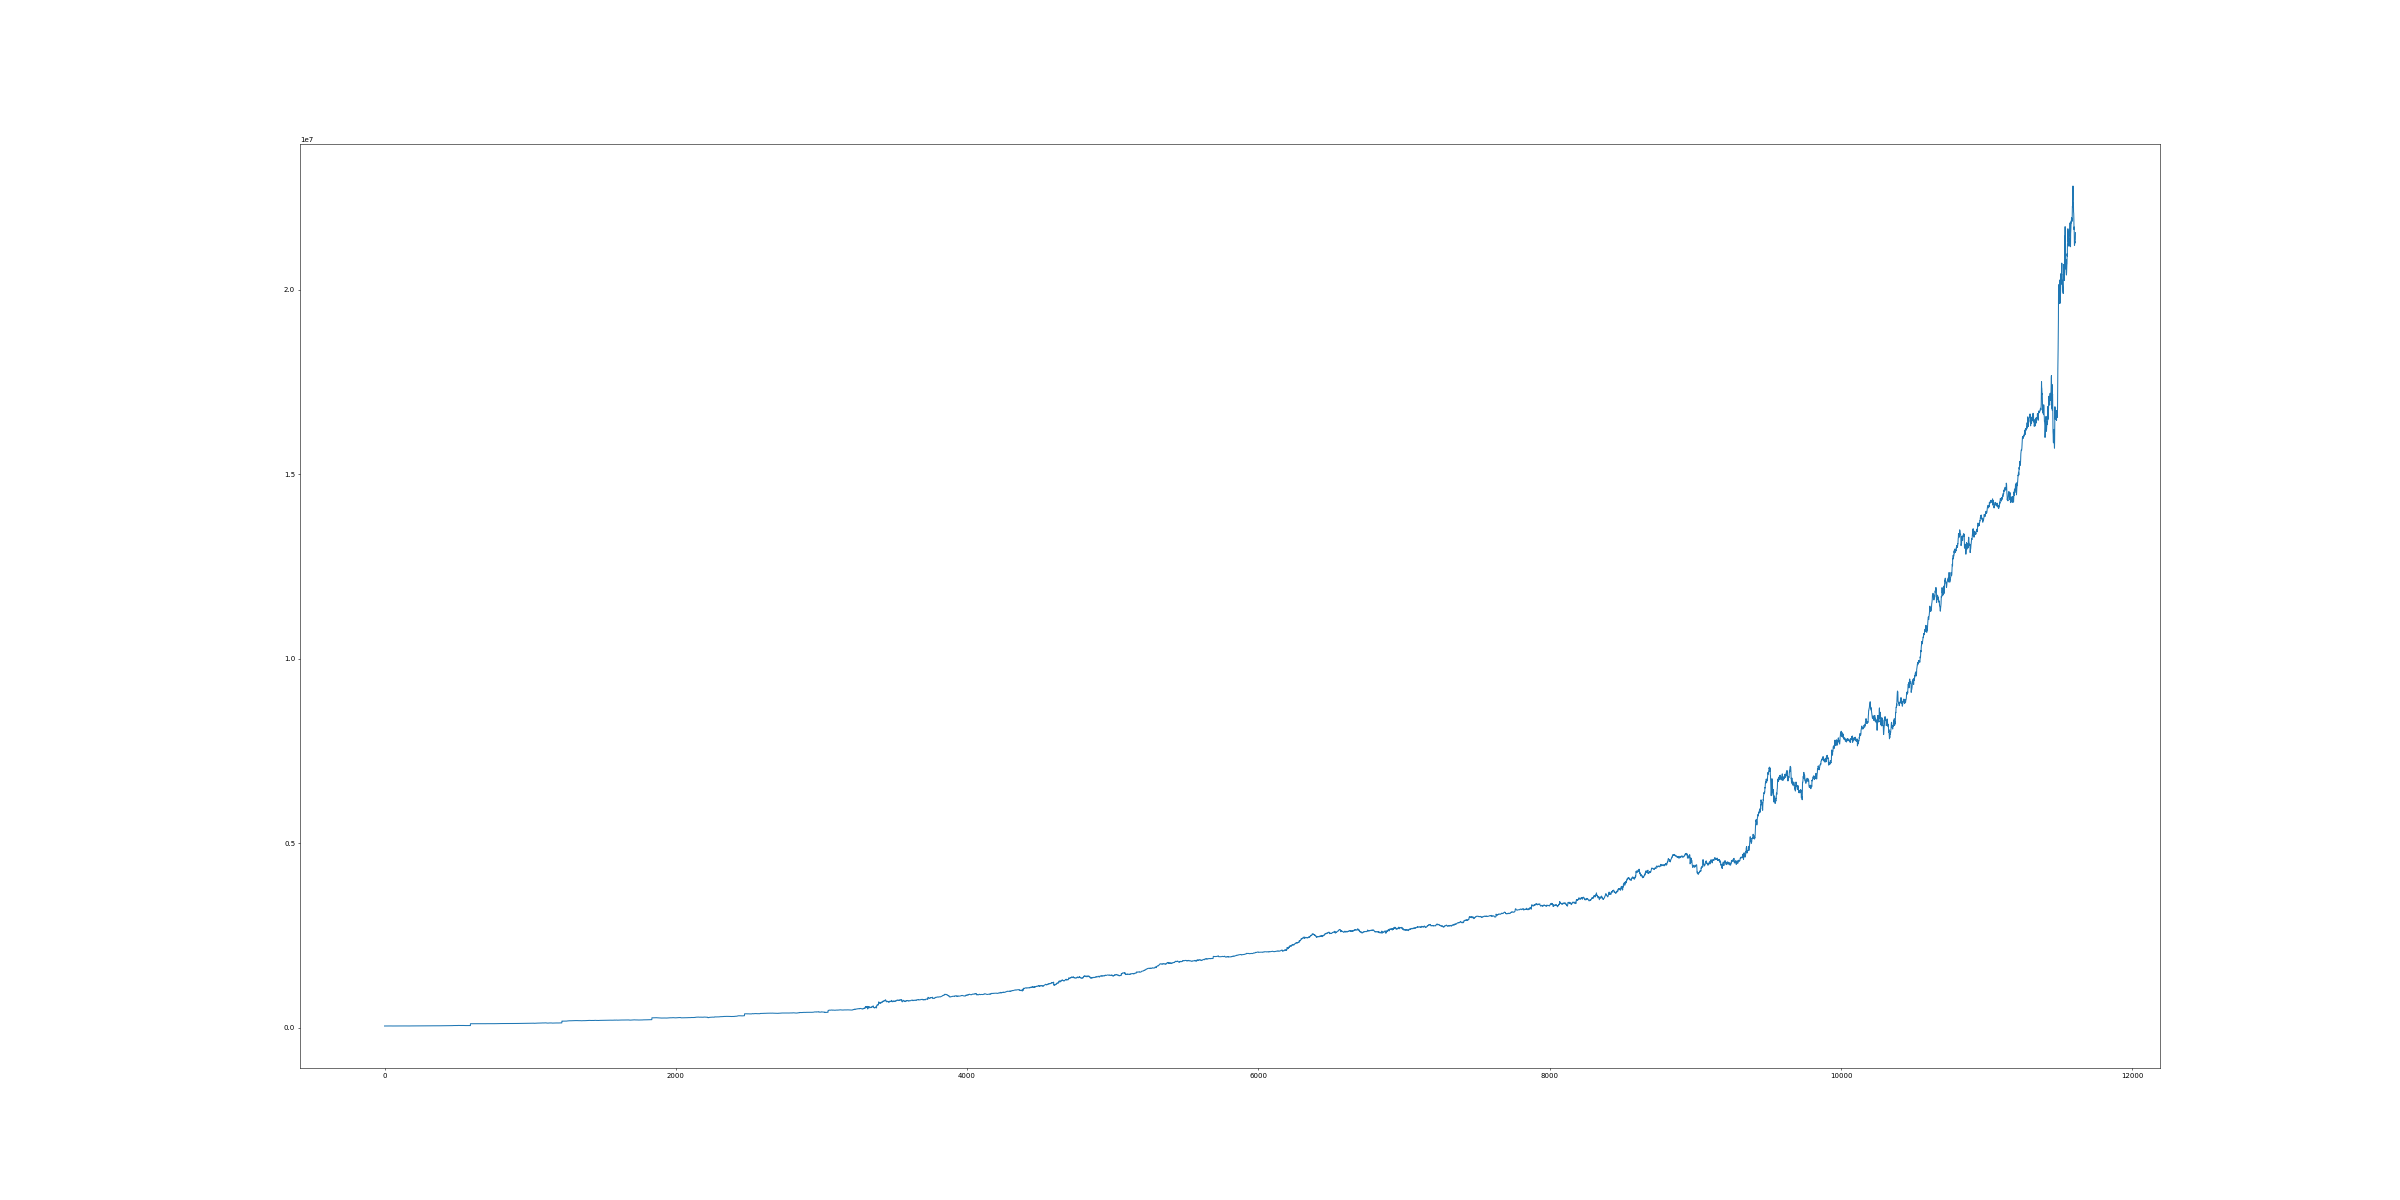
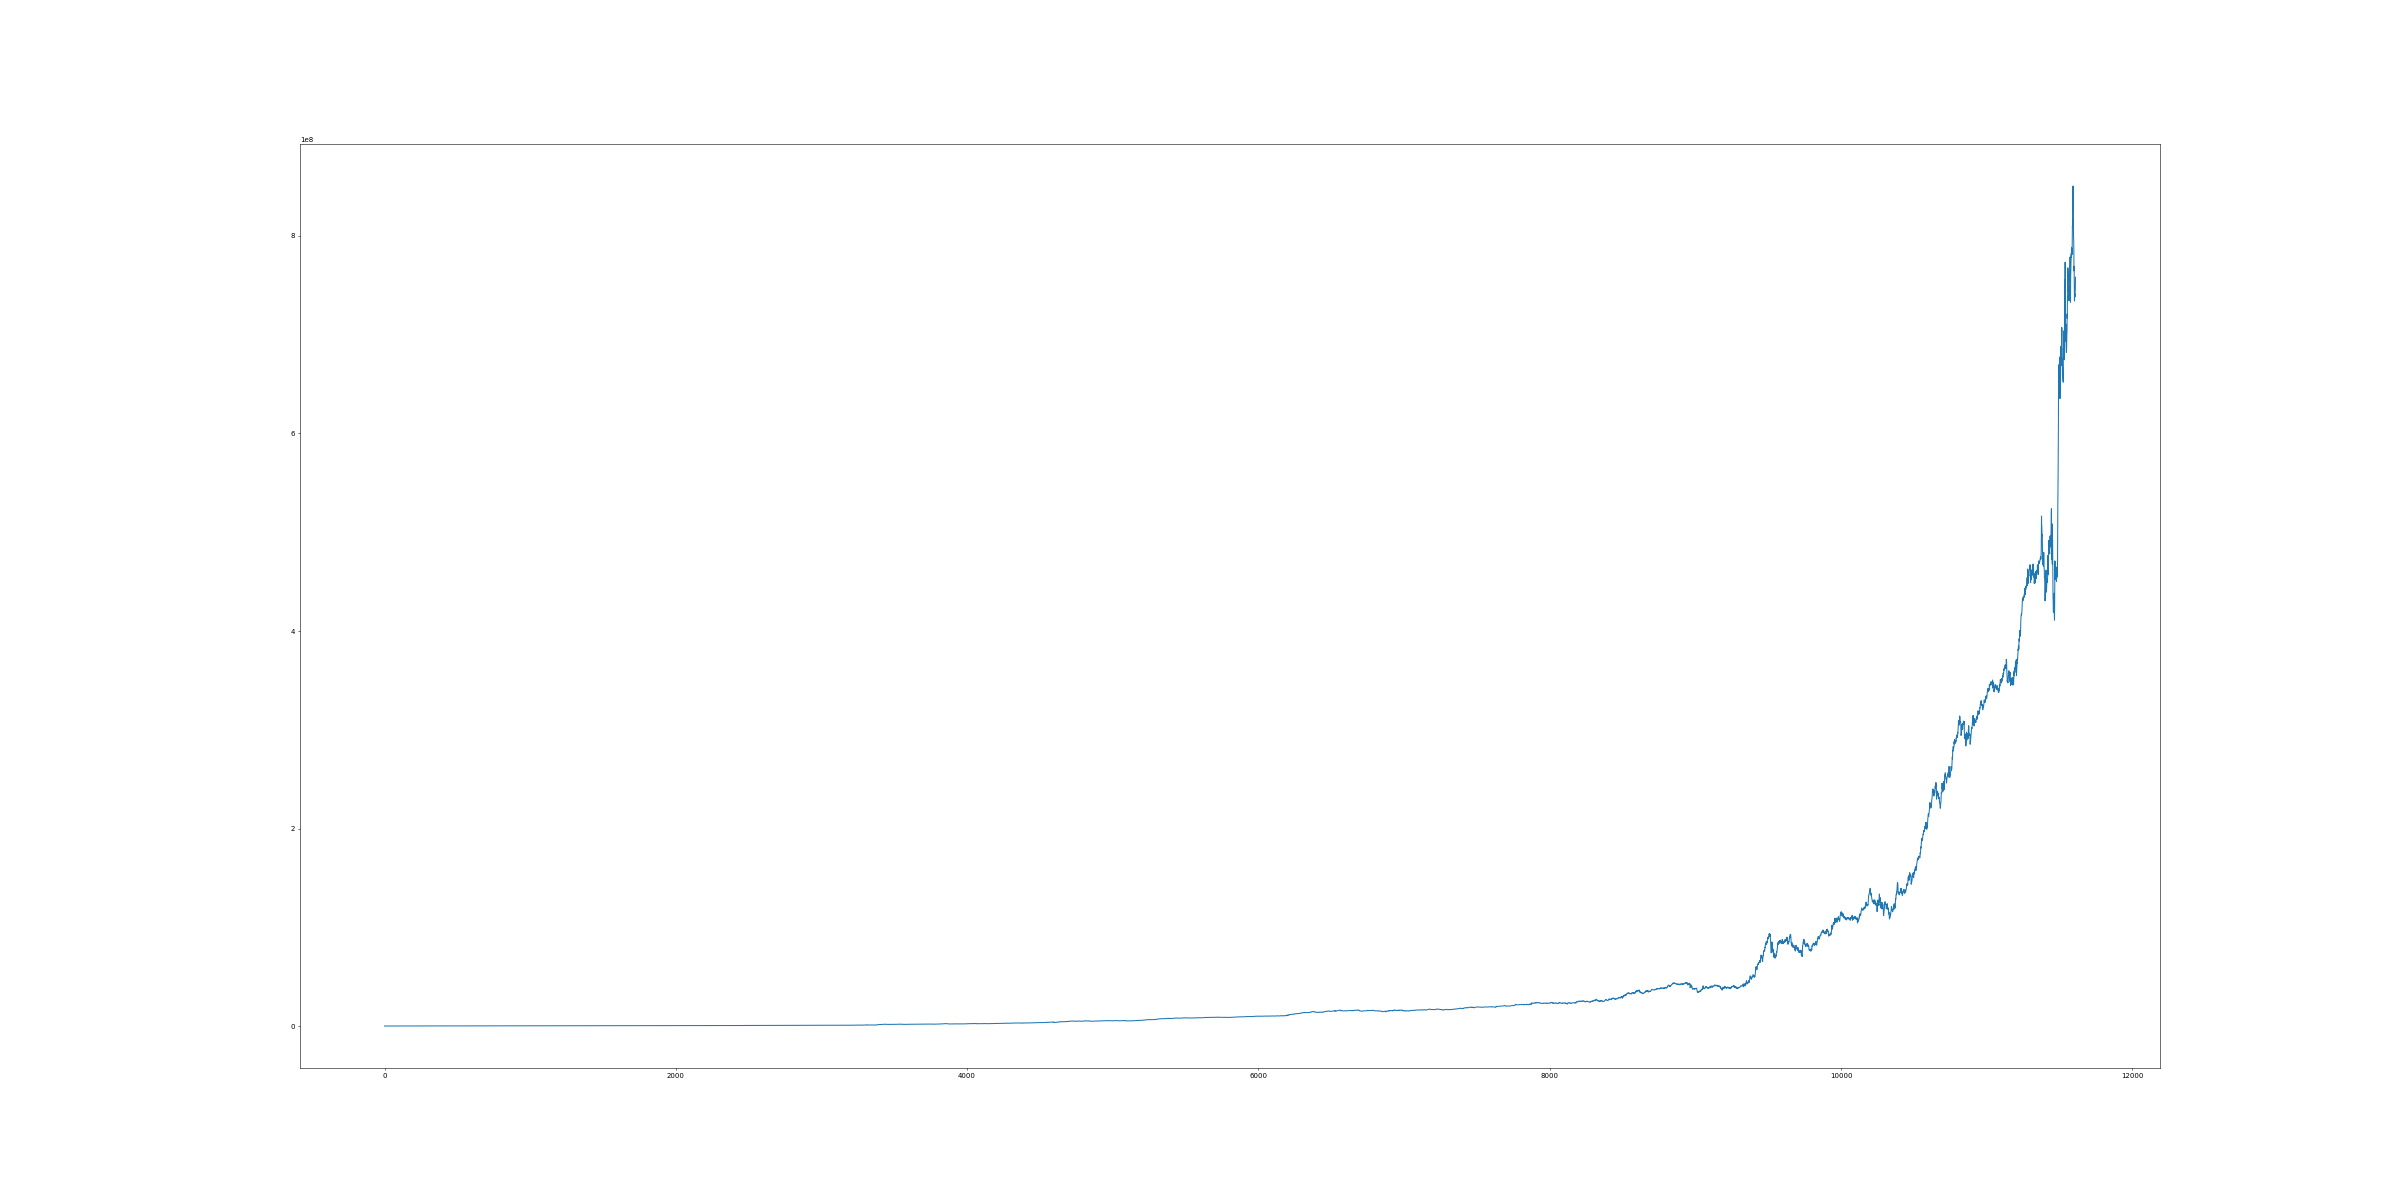
Fix leverageの考慮忘れ

diff --git a/backtest.py b/backtest.py
@@ -82,16 +82,18 @@ for i in range(len(data_prices)):
 
                         entry_sfd = data_entry["sfd"]
 
-                        amount = asset / entry_price
+                        amount = (asset * leverage) / entry_price
 
                         if (to_price - fr_price) < 0:
                             if entry_sfd >= 5:
                                 continue
-                            profit = (amount * close_price) - asset
+                            profit = (amount * close_price) - \
+                                (asset * leverage)
                         else:
                             if entry_sfd <= -5:
                                 continue
-                            profit = asset - (amount * close_price)
+                            profit = (asset * leverage) - \
+                                (amount * close_price)
 
                         profits.append(profit)
                         asset += profit
@@ -133,3 +135,4 @@ fig = plt.figure(figsize=(48, 24), dpi=50)
 ax1 = fig.add_subplot(1, 1, 1)
 ax1.plot(list(range(len(asset_flow))), asset_flow)
 fig.savefig("backtest_result.png")
+plt.show()
